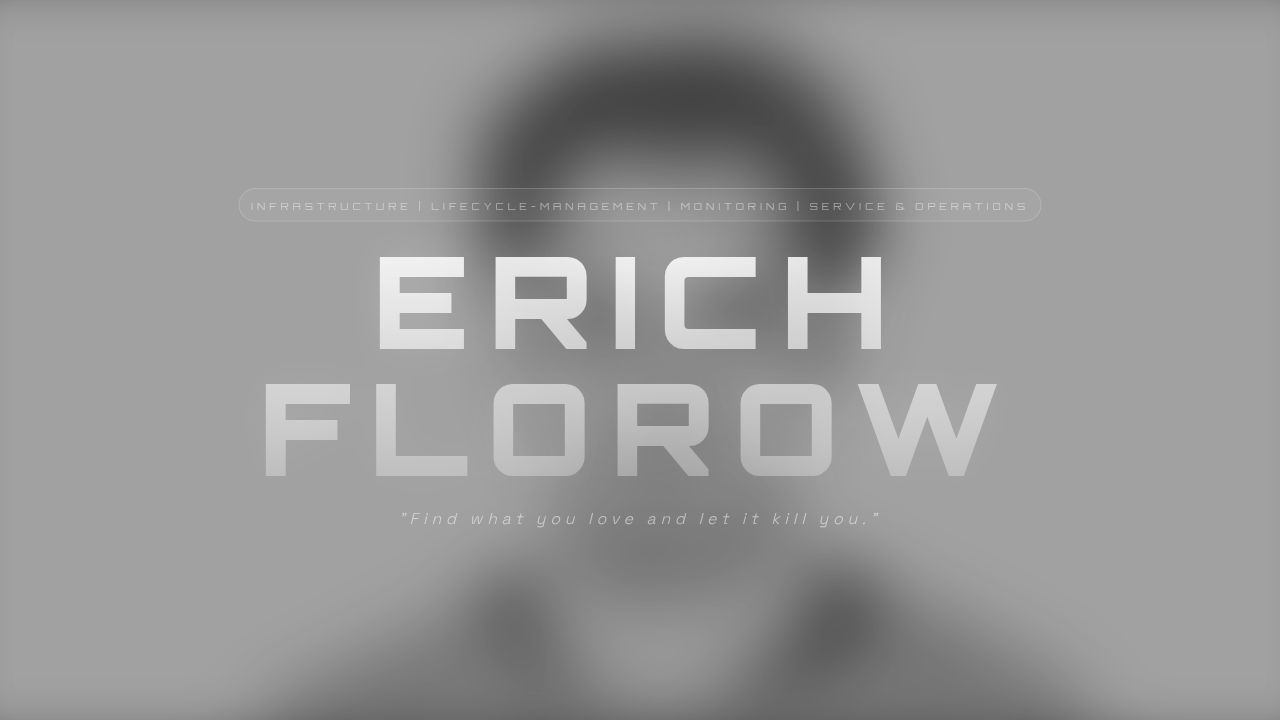
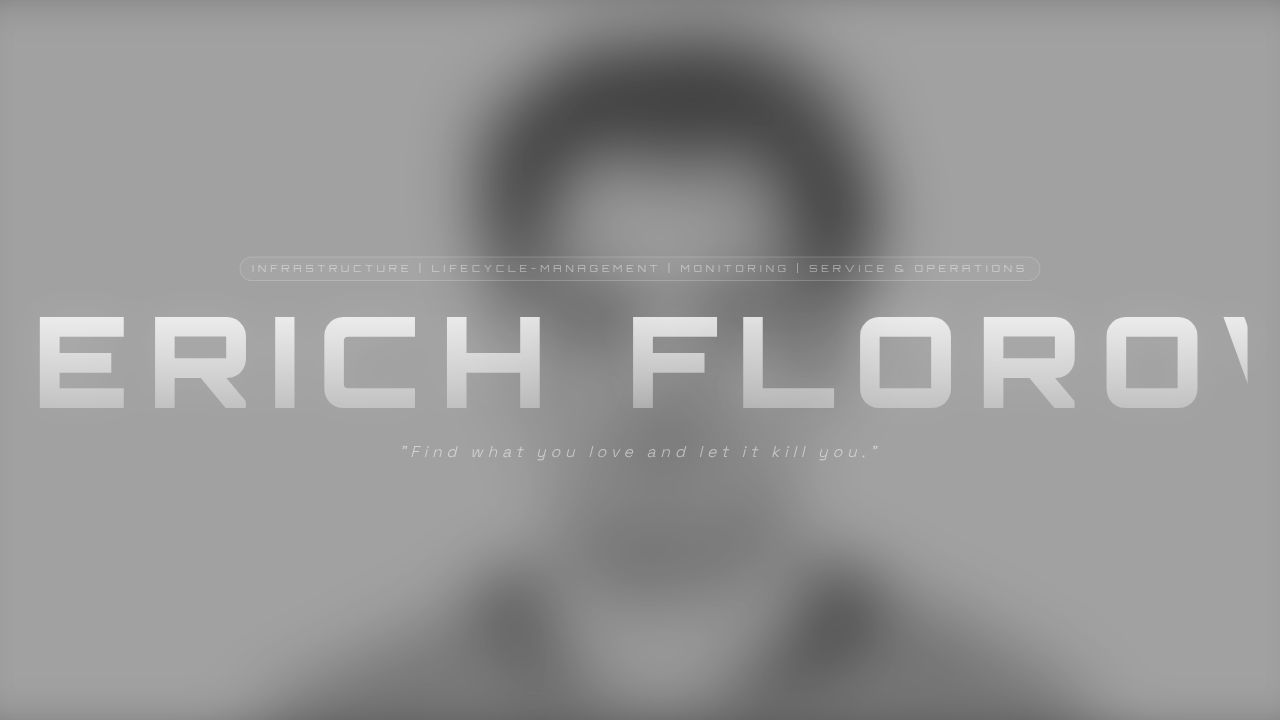
Animate hero section text and background elements on scroll
Implement scroll-based animations for the hero section's title and informational pill, adjusting text color, background, and scaling of "Erich Florow" in client/src/pages/home.tsx.

Replit-Commit-Author: Agent
Replit-Commit-Session-Id: 8429f5a3-2a5b-4a5f-b96d-6bf4e889ec66
Replit-Commit-Checkpoint-Type: full_checkpoint
Replit-Commit-Event-Id: 2c666ebb-7d6f-4e7f-9c25-28748d7352c0
Replit-Commit-Screenshot-Url: https://storage.googleapis.com/screenshot-production-us-central1/ac41c0b6-7845-4b6b-ad60-6fea01a77c30/8429f5a3-2a5b-4a5f-b96d-6bf4e889ec66/YhMm3Us
Replit-Helium-Checkpoint-Created: true

diff --git a/client/src/pages/home.tsx b/client/src/pages/home.tsx
@@ -1,8 +1,17 @@
 import { ScrollBackground } from "@/components/ScrollBackground";
-import { motion } from "framer-motion";
+import { motion, useScroll, useTransform } from "framer-motion";
 import { ArrowDown, Terminal, Cpu, Database, Globe, Code2, Briefcase, Zap, Shield, BarChart3, Users } from "lucide-react";
 
 export default function Home() {
+  const { scrollY } = useScroll();
+  
+  // Scroll animations for hero section
+  const pillBg = useTransform(scrollY, [0, 150], ["rgba(255, 255, 255, 0.05)", "rgba(255, 0, 128, 0.1)"]);
+  const pillBorder = useTransform(scrollY, [0, 150], ["rgba(255, 255, 255, 0.2)", "rgba(255, 0, 128, 0.5)"]);
+  const textColor = useTransform(scrollY, [0, 150], ["rgba(255, 255, 255, 0.5)", "rgba(255, 0, 128, 1)"]);
+  
+  const nameScale = useTransform(scrollY, [0, 300], [1, 0.75]);
+
   const skills = [
     { category: "Core Ops", items: ["Linux", "Unix", "Windows", "Kubernetes", "Docker", "Jenkins", "Git", "Bash"] },
     { category: "Data & API", items: ["Oracle", "PostgreSQL", "Progress", "SQL", "REST-APIs"] },
@@ -65,14 +74,28 @@ export default function Home() {
           initial={{ opacity: 0, scale: 0.9 }}
           animate={{ opacity: 1, scale: 1 }}
           transition={{ duration: 1, ease: "easeOut" }}
-          className="text-center z-10"
+          className="text-center z-10 w-full"
         >
-          <div className="inline-block mb-4 px-3 py-1 border border-white/20 bg-white/5 rounded-full">
-            <span className="text-[10px] uppercase tracking-[0.4em] font-display text-white/50">Infrastructure | LifeCycle-Management | Monitoring | Service & Operations</span>
-          </div>
-          <h1 className="font-display text-6xl md:text-9xl font-black uppercase tracking-[0.15em] mb-4 drop-shadow-[0_0_20px_rgba(255,255,255,0.2)] text-transparent bg-clip-text bg-gradient-to-b from-white to-white/30">
+          <motion.div 
+            style={{ 
+              backgroundColor: pillBg,
+              borderColor: pillBorder
+            }}
+            className="inline-block mb-4 px-3 py-1 border rounded-full"
+          >
+            <motion.span 
+              style={{ color: textColor }}
+              className="text-[10px] uppercase tracking-[0.4em] font-display block"
+            >
+              Infrastructure | LifeCycle-Management | Monitoring | Service & Operations
+            </motion.span>
+          </motion.div>
+          <motion.h1 
+            style={{ scale: nameScale }}
+            className="font-display text-6xl md:text-9xl font-black uppercase tracking-[0.15em] mb-4 drop-shadow-[0_0_20px_rgba(255,255,255,0.2)] text-transparent bg-clip-text bg-gradient-to-b from-white to-white/30 transform-origin-center whitespace-nowrap"
+          >
             Erich Florow
-          </h1>
+          </motion.h1>
           <p className="text-sm md:text-base text-white/60 max-w-2xl mx-auto font-light tracking-[0.3em] italic leading-relaxed">
             "Find what you love and let it kill you."
           </p>
